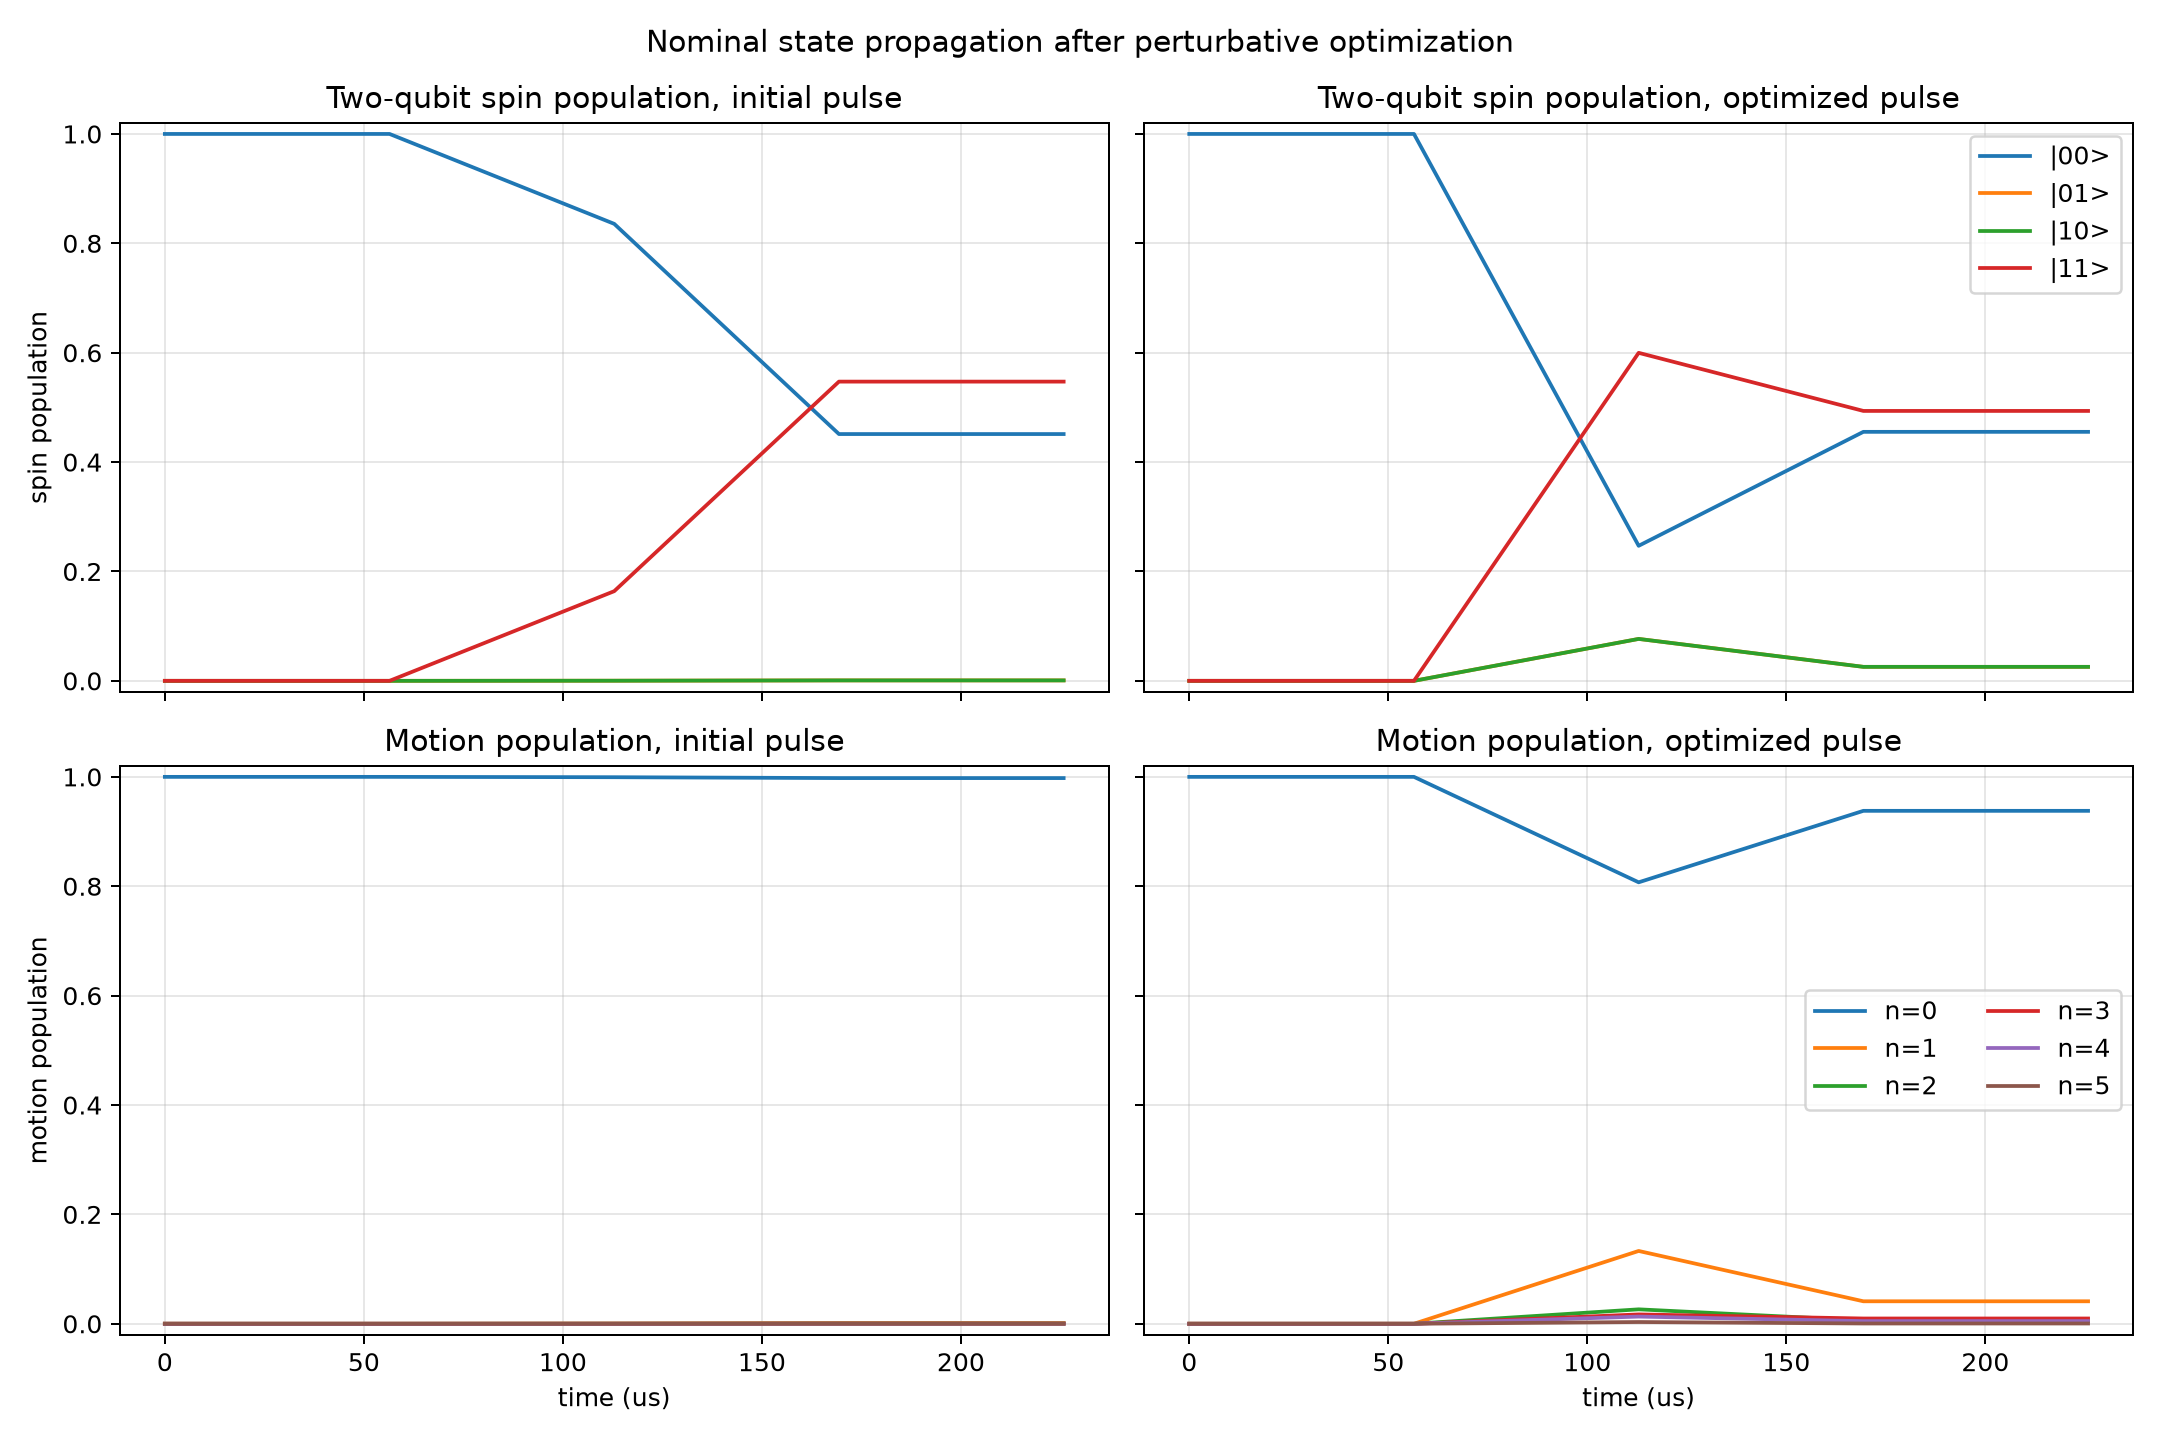
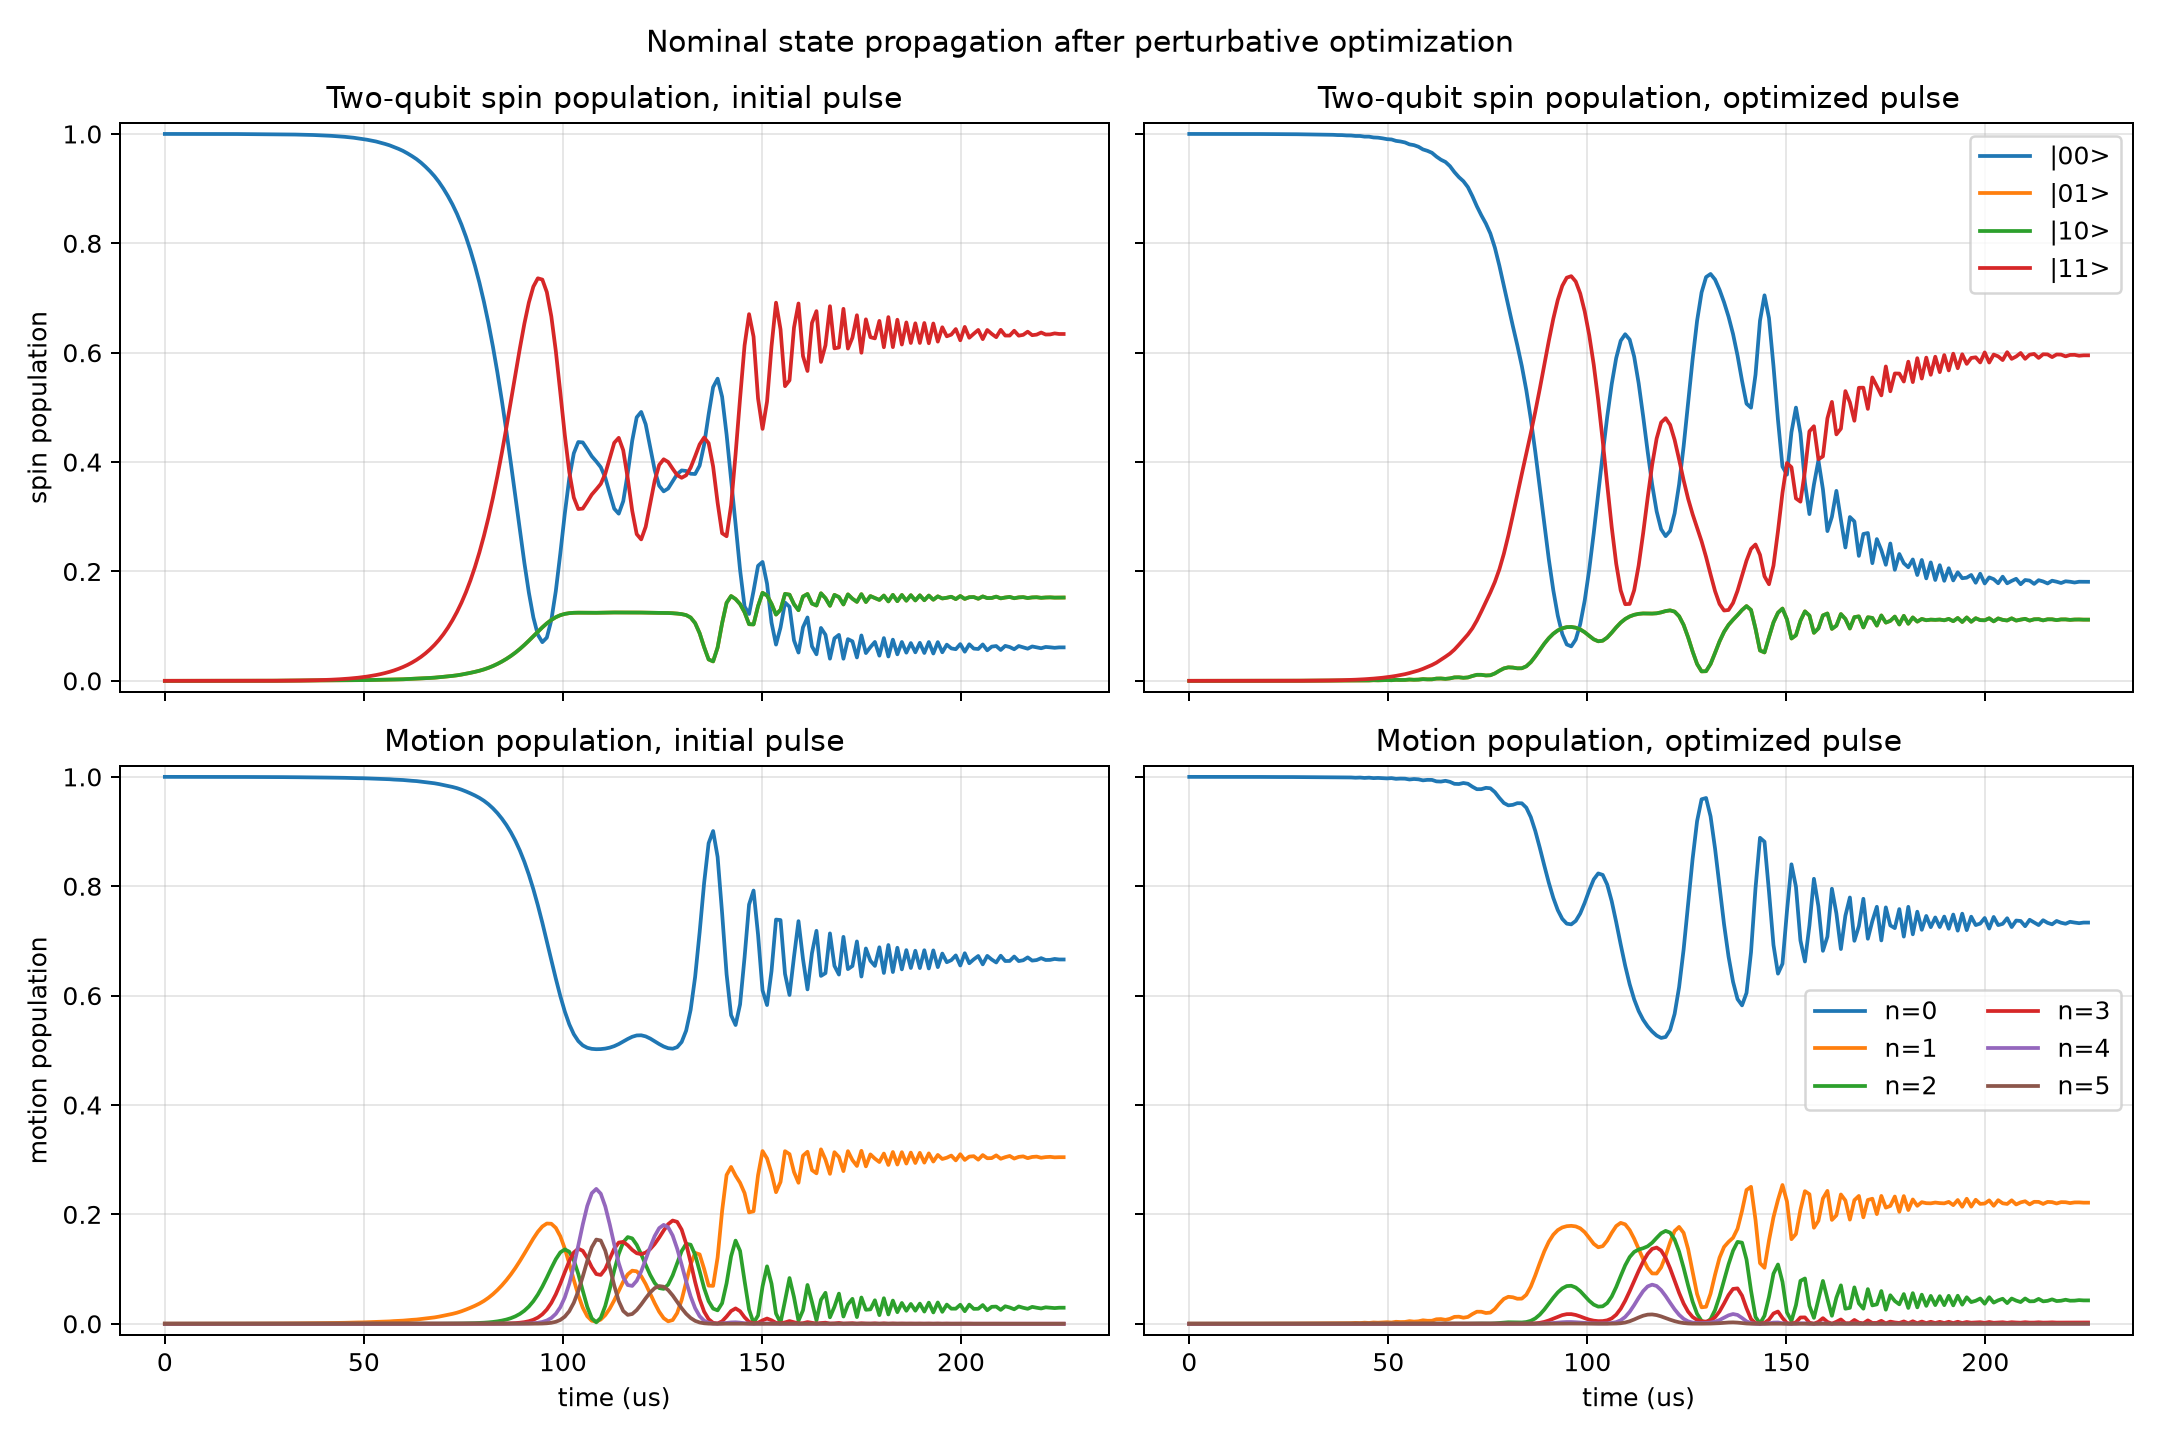
Reduce logical test state set

diff --git a/tests/test_quantum_control.py b/tests/test_quantum_control.py
@@ -153,8 +153,8 @@ def test_logical_gate_metric_states_are_normalized():
     single_states = single_qubit_logical_test_states()
     two_qubit_states = two_qubit_logical_test_states()
 
-    assert len(single_states) == 6
-    assert len(two_qubit_states) == 36
+    assert len(single_states) == 4
+    assert len(two_qubit_states) == 16
     assert all(np.allclose(np.vdot(state, state), 1.0) for state in single_states)
     assert all(np.allclose(np.vdot(state, state), 1.0) for state in two_qubit_states)
 
@@ -173,13 +173,13 @@ def test_motion_resolved_gate_state_pairs_use_spin_motion_ordering_and_weights()
     pairs = motion_resolved_gate_state_pairs(ms_xx_pi_over_2_gate(), n_levels)
     first_pair = pairs[0]
 
-    assert len(pairs) == 36 * n_levels
+    assert len(pairs) == 16 * n_levels
     assert np.allclose(sum(pair.weight for pair in pairs), n_levels)
     assert first_pair.initial_state.shape == (4 * n_levels,)
     assert first_pair.target_state.shape == (4 * n_levels,)
     assert np.allclose(first_pair.initial_state[0], 1.0)
     assert np.allclose(first_pair.initial_state[1:], 0.0)
-    assert np.allclose(first_pair.weight, 1.0 / 36.0)
+    assert np.allclose(first_pair.weight, 1.0 / 16.0)
 
 
 def test_zero_fluctuation_open_gate_fidelity_matches_closed_gate_fidelity():

diff --git a/quantum_control/gate_metrics.py b/quantum_control/gate_metrics.py
@@ -16,10 +16,8 @@ def single_qubit_logical_test_states():
     zero = np.array([1.0, 0.0], dtype=complex)
     one = np.array([0.0, 1.0], dtype=complex)
     plus = (zero + one) / np.sqrt(2.0)
-    minus = (zero - one) / np.sqrt(2.0)
     plus_i = (zero + 1j * one) / np.sqrt(2.0)
-    minus_i = (zero - 1j * one) / np.sqrt(2.0)
-    return (zero, one, plus, minus, plus_i, minus_i)
+    return (zero, one, plus, plus_i)
 
 
 def two_qubit_logical_test_states():